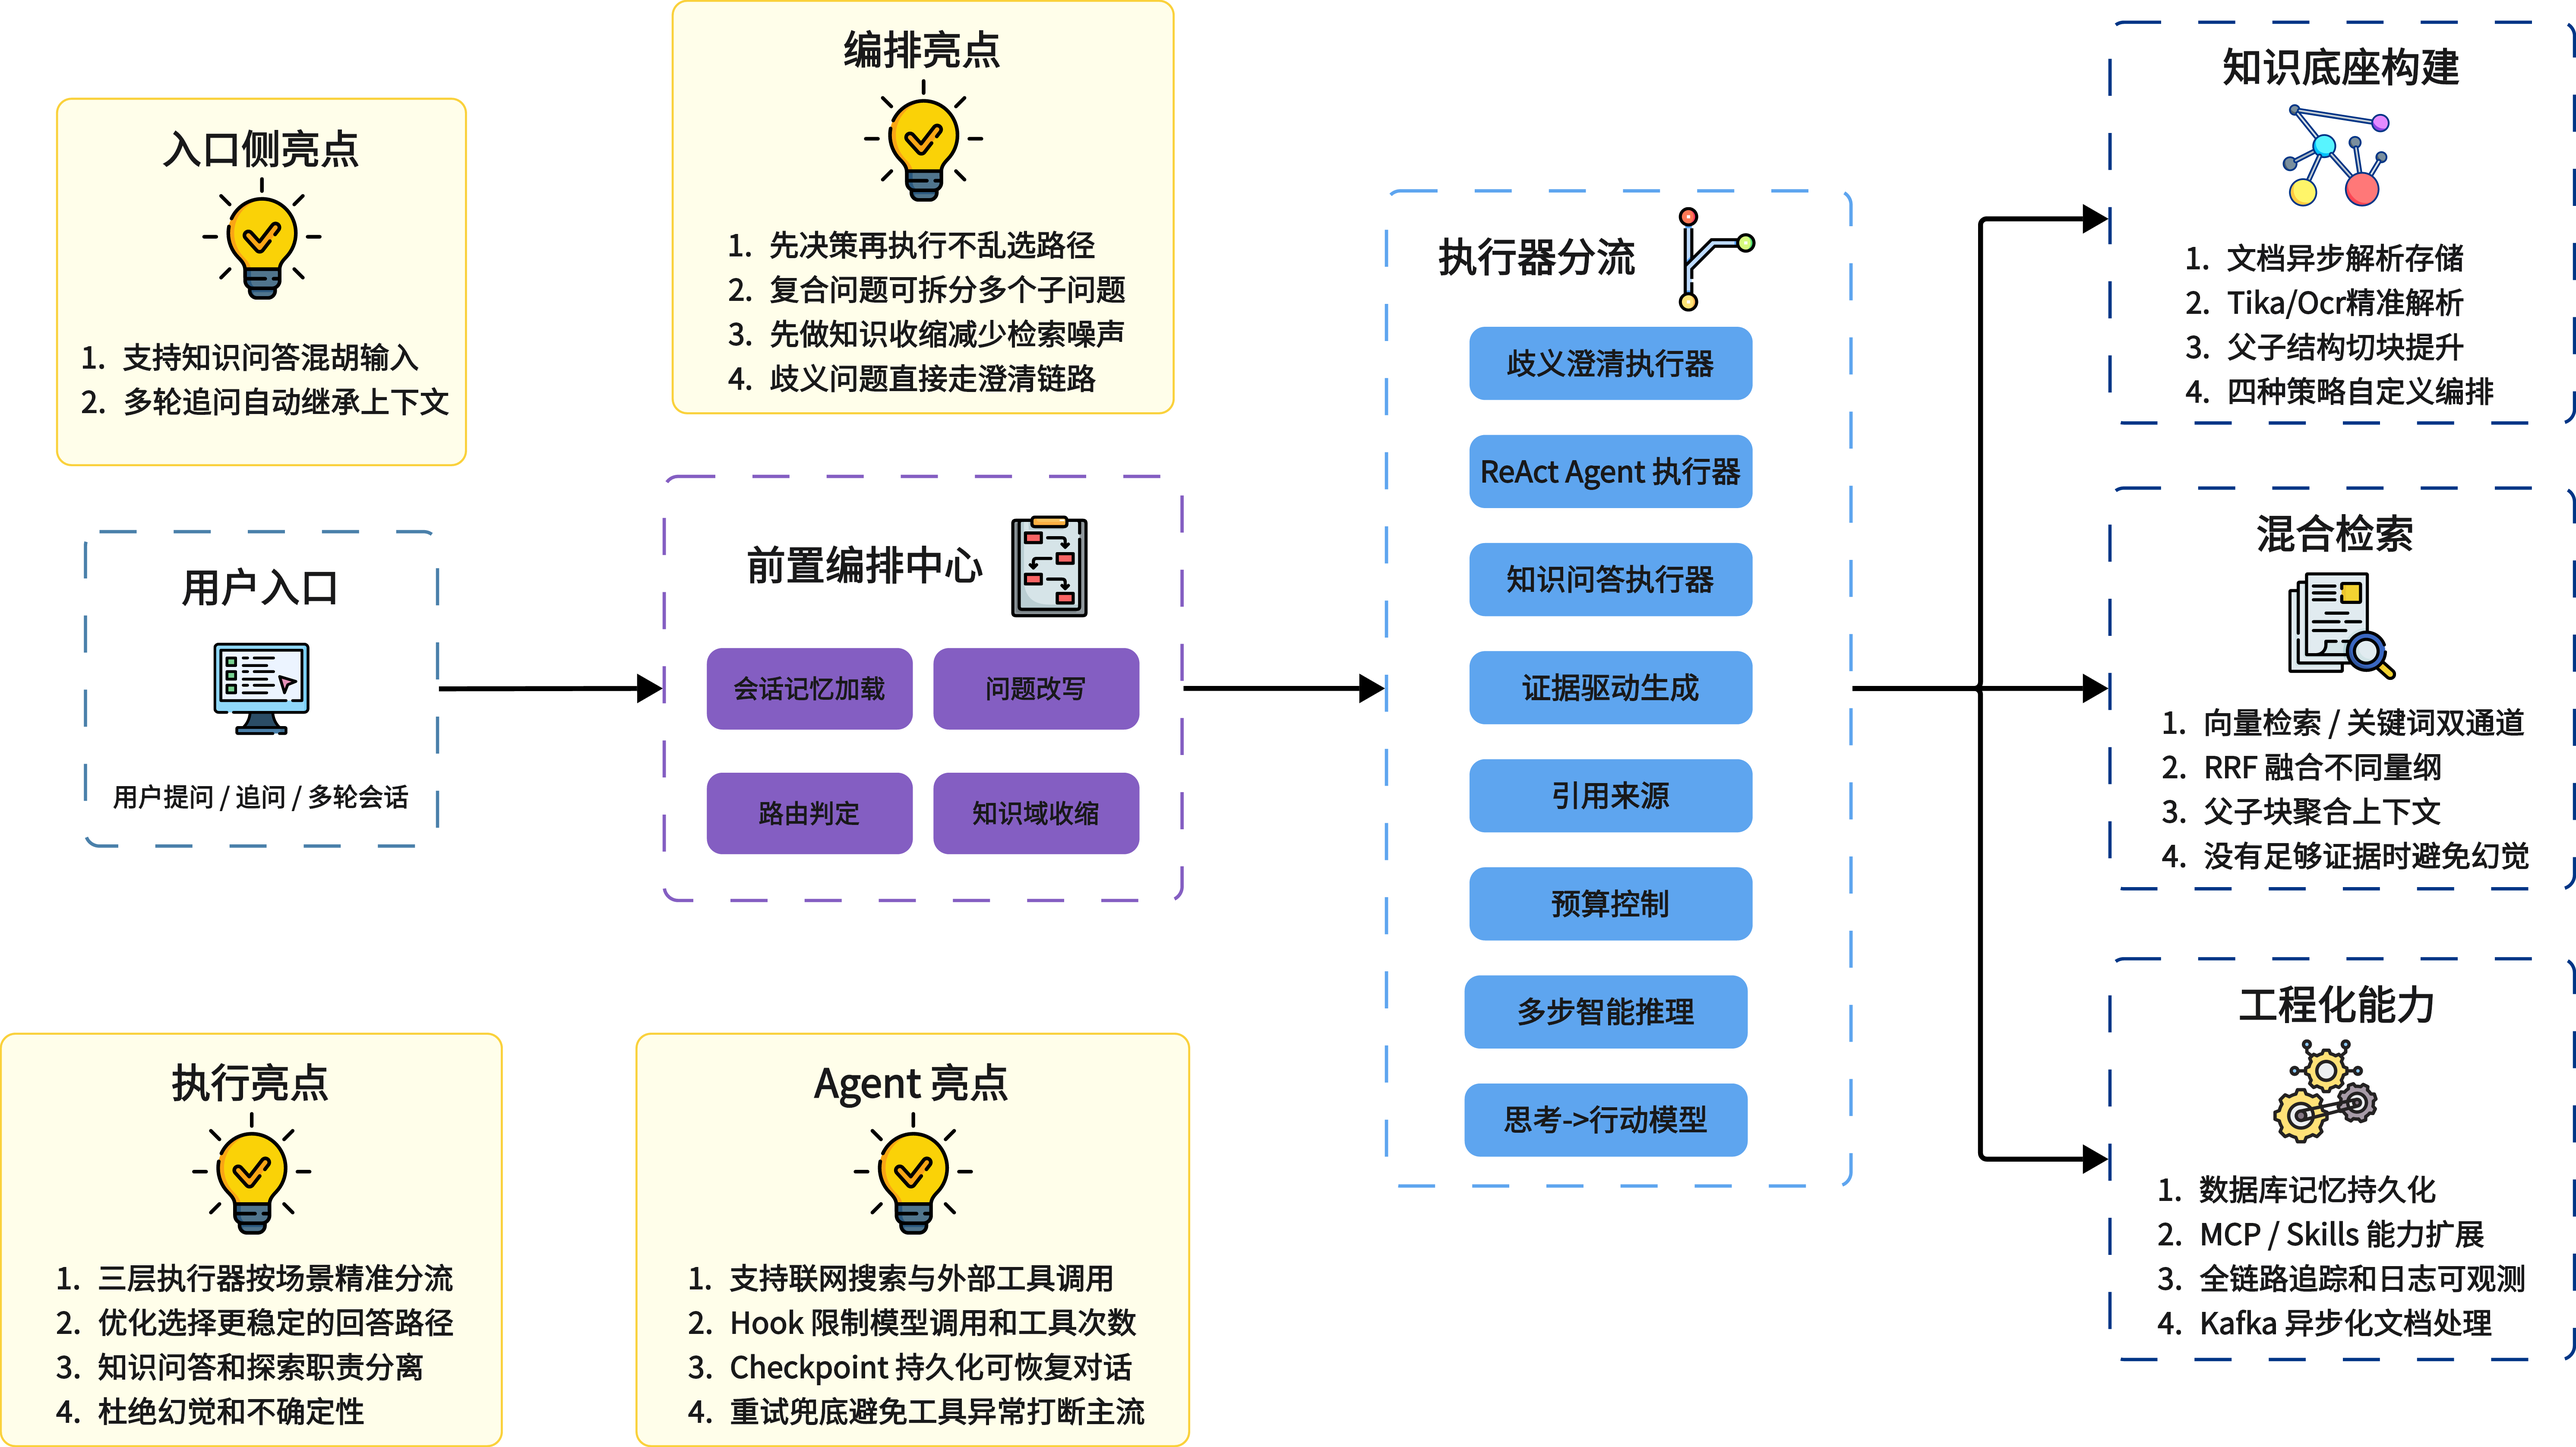
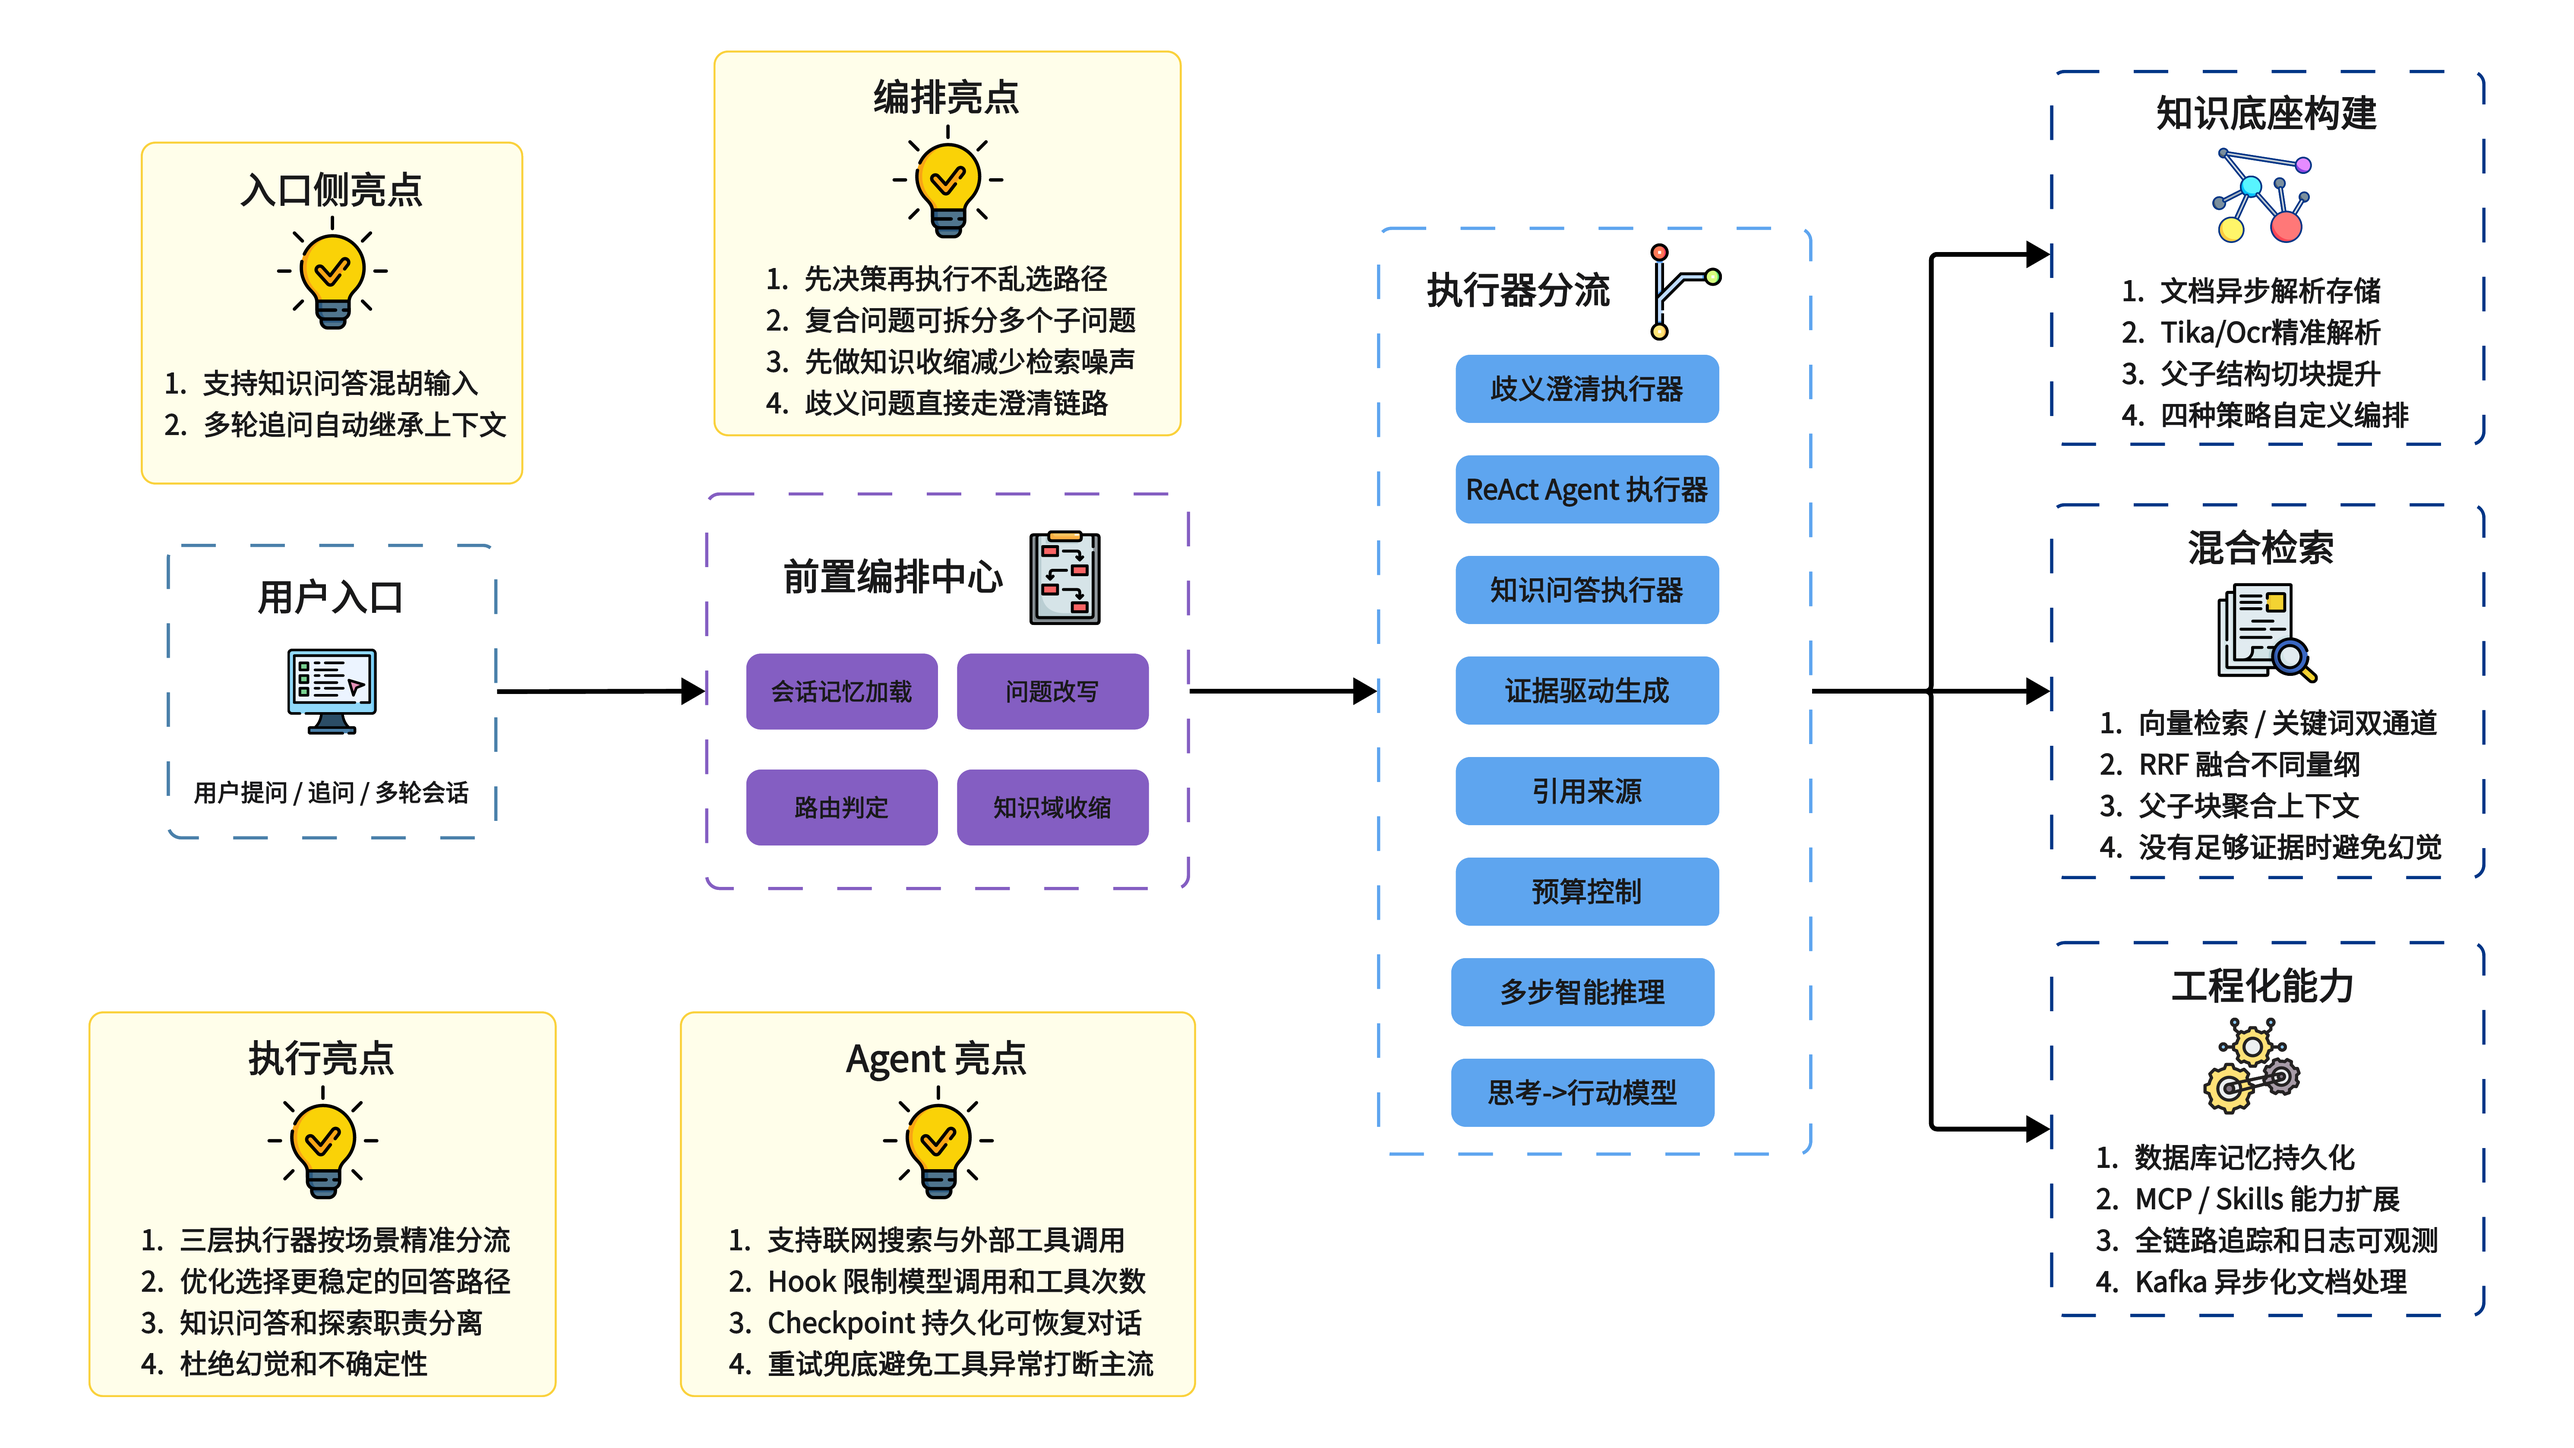
调整首页样式

diff --git a/src/pages/index.js b/src/pages/index.js
@@ -19,6 +19,24 @@ const baguModules = [
 // 项目数据配置
 const projects = [
   {
+    id: 'super-agent',
+    title: '🧠 超级智能体项目',
+    subtitle: '深入剖析 AI 底层与工程化落地！',
+    description: '面向企业级场景打造的 AI 智能体对话平台，完整覆盖 Agent 智能体、RAG 检索增强、MCP 工具协议、Skills 能力扩展、会话记忆管理与文档全生命周期治理，帮助你真正从“会调 API”进阶到“会做 AI 系统”。',
+    features: [
+      '🤖 ReAct Agent 智能体',
+      '📚 RAG 检索增强生成',
+      '🔌 MCP 工具协议集成',
+      '🧩 Skills 能力扩展',
+      '🧠 会话记忆管理',
+      '🗂 文档全生命周期治理'
+    ],
+    image: '/img/super-agent/架构图/架构流程图.png',
+    links: [
+      { label: '🎯 点击查看项目详情', to: '/super-agent/overview/project-intro' }
+    ]
+  },
+  {
     id: 'hmdp-plus',
     title: '🎟 黑马点评 Plus 项目',
     subtitle: '升级为生产级的实战版本！',
